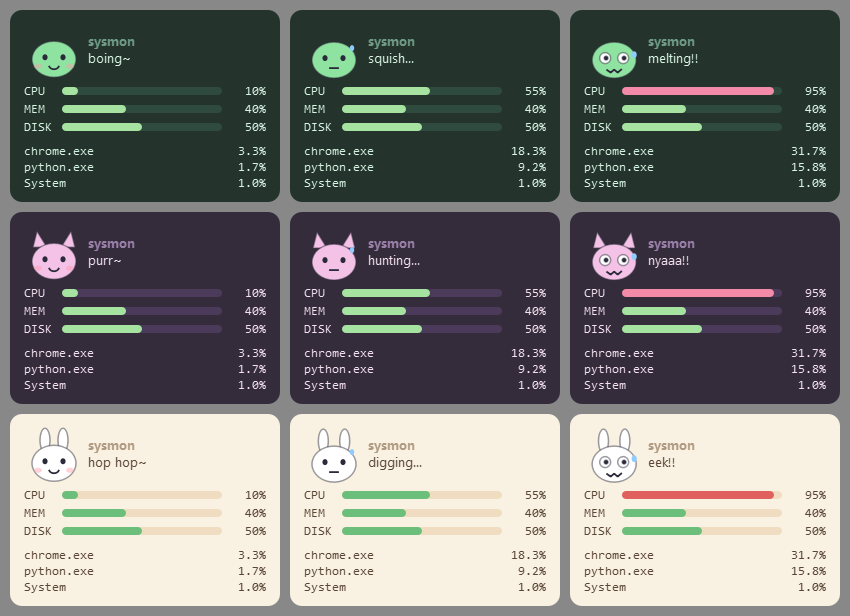
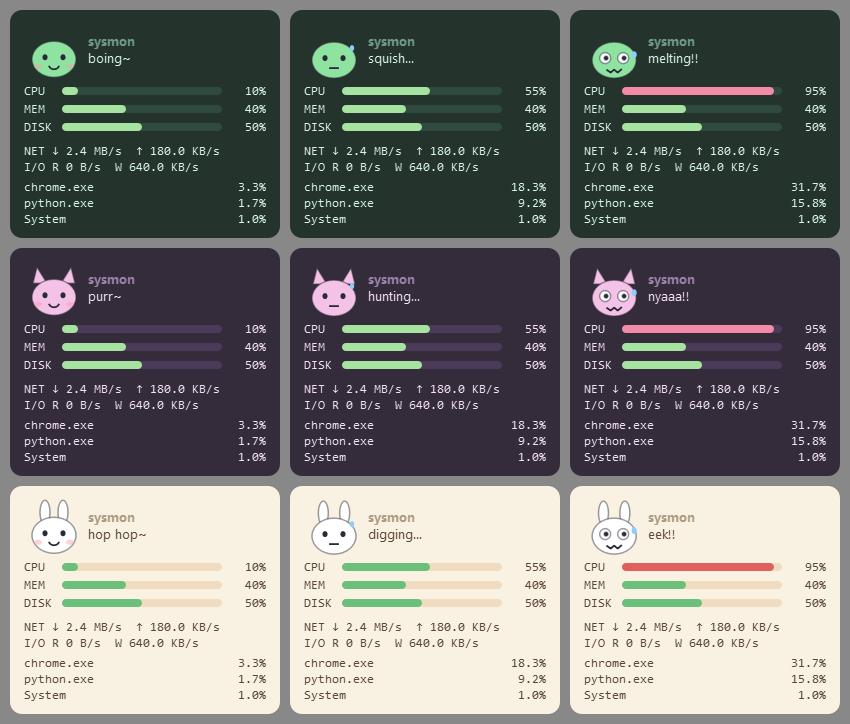
Write README in English and Simplified Chinese
- README.md (English) and README.zh-CN.md with a language switch link
- Document I/O speed and end-process features, clone-based install
- Refresh the skins preview image, update the roadmap

diff --git a/README.md b/README.md
@@ -1,17 +1,31 @@
 # sysmon
 
-A tiny terminal system monitor written in Python, built on [psutil](https://github.com/giampaolo/psutil) and [rich](https://github.com/Textualize/rich).
+**English** | [简体中文](README.zh-CN.md)
 
-Shows CPU, memory and disk usage plus the top processes, refreshing live.
+A tiny system monitor written in Python, for the terminal and the desktop. Built on [psutil](https://github.com/giampaolo/psutil) and [rich](https://github.com/Textualize/rich), with an optional floating window ([PySide6](https://doc.qt.io/qtforpython-6/)) that has skins and a cartoon mascot.
+
+It shows CPU, memory and disk usage, network and disk I/O speed, and the top processes, refreshing live.
 
 ![Floating window with the Slime, Kitty and Sunny Bunny skins in idle, busy and overload moods](docs/skins.png)
+
+## Features
+
+- Live terminal view: CPU, memory, disk, network up/down and disk read/write speed, top processes
+- Sort processes by CPU or memory, filter by name
+- End a process by PID from the command line, or by right-clicking it in the floating window (always asks first)
+- Export a snapshot as JSON, ready for scripts and pipes
+- Floating always-on-top window: drag to move, double-click to collapse, remembers its position and settings
+- Skins and a cartoon mascot whose face follows your system load; make your own skins with a small JSON file
+
+Requires Python 3.9 or newer (declared in `pyproject.toml`). Developed and tested on Windows 11 with Python 3.15; the command-line view should also work on Linux and macOS but has not been tested there.
 
 ## Install
 
 ```bash
-pip install -e .          # from the project root
-pip install -e ".[dev]"   # with test dependencies
-pip install -e ".[gui]"   # with the floating window (PySide6)
+git clone https://github.com/ethannn0o0/sysmon.git
+cd sysmon
+pip install -e .          # command-line monitor
+pip install -e ".[gui]"   # plus the floating window (installs PySide6)
 ```
 
 ## Usage
@@ -21,22 +35,22 @@ sysmon                    # live view, Ctrl+C to quit
 sysmon --once             # print a single snapshot
 sysmon -n 20 -s memory    # top 20 processes by memory
 sysmon -f chrome          # only processes whose name contains 'chrome'
-sysmon --gui              # floating always-on-top window (drag to move, right-click for menu)
 sysmon -i 2               # refresh every 2 seconds
-python -m sysmon          # run without installing the script
-sysmon kill 1234          # terminate PID 1234 (asks for confirmation)
+sysmon --gui              # floating window (drag to move, right-click for the menu)
+sysmon kill 1234          # end PID 1234 (asks for confirmation)
 sysmon kill 1234 -f -y    # force-kill, no confirmation
 sysmon --json             # print one snapshot as JSON (pipe-friendly)
 sysmon --json -o out.json # write the snapshot to a file
+python -m sysmon          # run without installing the script
 ```
+
+In the floating window: **left-drag** moves it, **double-click** collapses it to the three bars, **right-click** opens the menu (skin, sort order, compact mode, always on top, opacity, quit). Right-clicking a process row adds **End process…**.
 
 ## Skins
 
-Right-click the floating window -> **Skin**. Built-in skins: Midnight, Slime, Kitty, Sunny Bunny.
-The cartoon mascot changes expression with system load (idle / busy / overload).
+Right-click the floating window → **Skin**. Built-in skins: Midnight, Slime, Kitty, Sunny Bunny. The cartoon mascot changes expression with system load (idle / busy / overload).
 
-Make your own: choose **Skin -> Open skins folder...** (creates `~/.sysmon/skins/` with an example),
-copy the example folder and edit its `skin.json`. New skins appear in the menu immediately.
+Make your own: choose **Skin → Open skins folder…** (this creates `~/.sysmon/skins/` with an example), copy the example folder and edit its `skin.json`. New skins appear in the menu immediately.
 
 ```json
 {
@@ -54,28 +68,33 @@ copy the example folder and edit its `skin.json`. New skins appear in the menu i
 }
 ```
 
-- Every field is optional; invalid values fall back to defaults and a broken skin is skipped.
-- `mascot.builtin` is `blob`, `cat` or `bunny` (drawn in code). `frames` are your own images
-  (png/jpg/webp, inside the skin folder) and take priority; `idle` is required, missing moods reuse it.
-- Mood: overload at CPU >= 80% or memory >= 92%; busy at CPU >= 40% or memory >= 80%.
-- Only install skins you trust to look at; skins contain no code, just colours and images.
+- Every field is optional. Invalid values fall back to defaults, and a broken skin is skipped.
+- `mascot.builtin` is `blob`, `cat` or `bunny` (drawn in code). `frames` are your own images (png/jpg/webp, inside the skin folder) and take priority. `idle` is required; missing moods reuse it.
+- Mood: overload at CPU ≥ 80% or memory ≥ 92%; busy at CPU ≥ 40% or memory ≥ 80%.
+- Skins contain no code, only colours and images. Image paths cannot point outside the skin folder.
 
 ## Development
 
 ```bash
+pip install -e ".[dev,gui]"
 pytest
 ```
 
+The GUI tests run without a display (Qt's offscreen mode) and are skipped if PySide6 is not installed.
+
 ## Roadmap
 
-- [x] Kill a process by PID
-- [x] Process name filter / search
-- [ ] Network and disk I/O rates
-- [x] Export snapshot as JSON
-- [ ] Interactive UI with [Textual](https://github.com/Textualize/textual)
+- [x] End a process by PID
+- [x] Process name filter
+- [x] Export a snapshot as JSON
+- [x] Network and disk I/O speed
+- [x] Skins and a cartoon mascot
+- [ ] Interactive terminal UI with [Textual](https://github.com/Textualize/textual)
+- [ ] Per-core CPU view
+- [ ] Windows installer (.exe)
 
 ## License
 
-[MIT](LICENSE) (c) 2026 ethannn0o0
+[MIT](LICENSE) © 2026 ethannn0o0
 
-Dependencies keep their own licenses: [psutil](https://github.com/giampaolo/psutil) (BSD-3-Clause), [rich](https://github.com/Textualize/rich) (MIT), and the optional floating window uses [PySide6](https://doc.qt.io/qtforpython-6/) (LGPL-3.0). sysmon does not bundle any of them; they are installed separately by pip.
+Dependencies keep their own licenses: [psutil](https://github.com/giampaolo/psutil) (BSD-3-Clause), [rich](https://github.com/Textualize/rich) (MIT), and the optional floating window uses [PySide6](https://doc.qt.io/qtforpython-6/) (LGPL-3.0). sysmon does not bundle any of them; pip installs them separately.

diff --git a/README.zh-CN.md b/README.zh-CN.md
@@ -1,0 +1,100 @@
+# sysmon
+
+[English](README.md) | **简体中文**
+
+一个用 Python 写的轻量系统监控工具，既能在终端里用，也能做成桌面悬浮窗。基于 [psutil](https://github.com/giampaolo/psutil) 和 [rich](https://github.com/Textualize/rich)，另有可选的悬浮窗界面（[PySide6](https://doc.qt.io/qtforpython-6/)），支持换皮肤和卡通吉祥物。
+
+实时显示 CPU、内存、磁盘占用，网络和磁盘读写速度，以及占用最高的进程。
+
+![悬浮窗的三款皮肤（Slime、Kitty、Sunny Bunny），分别展示空闲、忙碌、过载三种表情](docs/skins.png)
+
+## 功能
+
+- 终端实时视图：CPU、内存、磁盘、网络上传/下载速度、磁盘读写速度、进程排行
+- 进程可按 CPU 或内存排序，也可按名字过滤
+- 可在命令行里按 PID 结束进程，也可在悬浮窗里右键进程结束（结束前一定会先确认）
+- 把一次快照导出为 JSON，方便脚本和管道使用
+- 悬浮窗：始终置顶，拖动移动，双击收起，自动记住位置和设置
+- 皮肤和卡通吉祥物：吉祥物的表情会随系统负载变化，用一个小 JSON 文件就能做自己的皮肤
+
+需要 Python 3.9 或更高版本（写在 `pyproject.toml` 里）。开发和测试环境是 Windows 11 加 Python 3.15；命令行视图理论上也能在 Linux 和 macOS 上运行，但还没有在那些系统上测试过。
+
+## 安装
+
+```bash
+git clone https://github.com/ethannn0o0/sysmon.git
+cd sysmon
+pip install -e .          # 命令行监控
+pip install -e ".[gui]"   # 加上悬浮窗（会安装 PySide6）
+```
+
+## 使用
+
+```bash
+sysmon                    # 实时视图，Ctrl+C 退出
+sysmon --once             # 只打印一次
+sysmon -n 20 -s memory    # 按内存排序，显示前 20 个进程
+sysmon -f chrome          # 只显示名字包含 chrome 的进程
+sysmon -i 2               # 每 2 秒刷新一次
+sysmon --gui              # 悬浮窗（拖动移动，右键打开菜单）
+sysmon kill 1234          # 结束 PID 为 1234 的进程（会先确认）
+sysmon kill 1234 -f -y    # 强制结束，不确认
+sysmon --json             # 以 JSON 输出一次快照（适合管道）
+sysmon --json -o out.json # 把快照写入文件
+python -m sysmon          # 不安装命令也能运行
+```
+
+悬浮窗操作：**左键拖动**移动位置，**双击**收起成只剩三条进度条，**右键**打开菜单（换皮肤、排序方式、紧凑模式、置顶、透明度、退出）。在某个进程行上右键，菜单里会多出 **End process…**（结束进程）。
+
+## 皮肤
+
+右键悬浮窗 → **Skin**。内置皮肤：Midnight、Slime、Kitty、Sunny Bunny。卡通吉祥物会随系统负载变换表情（空闲 / 忙碌 / 过载）。
+
+自己做皮肤：选择 **Skin → Open skins folder…**（会创建 `~/.sysmon/skins/` 并放入一个示例），复制示例文件夹，修改里面的 `skin.json`。新皮肤会立刻出现在菜单里。
+
+```json
+{
+  "name": "My Skin",
+  "colors": {"bg": "#1e1e2e", "track": "#45475a", "text": "#cdd6f4", "dim": "#6c7086",
+             "good": "#a6e3a1", "warn": "#f9e2af", "bad": "#f38ba8"},
+  "bg_alpha": 0.9,
+  "radius": 12,
+  "mascot": {
+    "builtin": "cat",
+    "color": "#f5c2e7",
+    "frames": {"idle": "idle.png", "busy": "busy.png", "overload": "overload.png"}
+  },
+  "lines": {"idle": "purr~", "busy": "hunting...", "overload": "nyaaa!!"}
+}
+```
+
+- 所有字段都是可选的。值无效时会回退到默认值，损坏的皮肤会被跳过。
+- `mascot.builtin` 可选 `blob`、`cat`、`bunny`（用代码绘制）。`frames` 是你自己的图片（png/jpg/webp，放在皮肤文件夹内），优先于内置形象。`idle` 必填，缺少的表情会复用它。
+- 表情规则：CPU ≥ 80% 或内存 ≥ 92% 为过载；CPU ≥ 40% 或内存 ≥ 80% 为忙碌。
+- 皮肤里没有代码，只有颜色和图片，图片路径也不能指向皮肤文件夹之外。
+
+## 开发
+
+```bash
+pip install -e ".[dev,gui]"
+pytest
+```
+
+界面测试使用 Qt 的离屏模式，不需要显示器；没有安装 PySide6 时会自动跳过。
+
+## 路线图
+
+- [x] 按 PID 结束进程
+- [x] 按名字过滤进程
+- [x] 把快照导出为 JSON
+- [x] 网络和磁盘读写速度
+- [x] 皮肤和卡通吉祥物
+- [ ] 用 [Textual](https://github.com/Textualize/textual) 做交互式终端界面
+- [ ] 按核心显示 CPU 占用
+- [ ] Windows 安装包（.exe）
+
+## 许可证
+
+[MIT](LICENSE) © 2026 ethannn0o0
+
+依赖库各自保留自己的许可证：[psutil](https://github.com/giampaolo/psutil)（BSD-3-Clause）、[rich](https://github.com/Textualize/rich)（MIT）；可选的悬浮窗使用 [PySide6](https://doc.qt.io/qtforpython-6/)（LGPL-3.0）。sysmon 不打包这些库，它们由 pip 另行安装。
